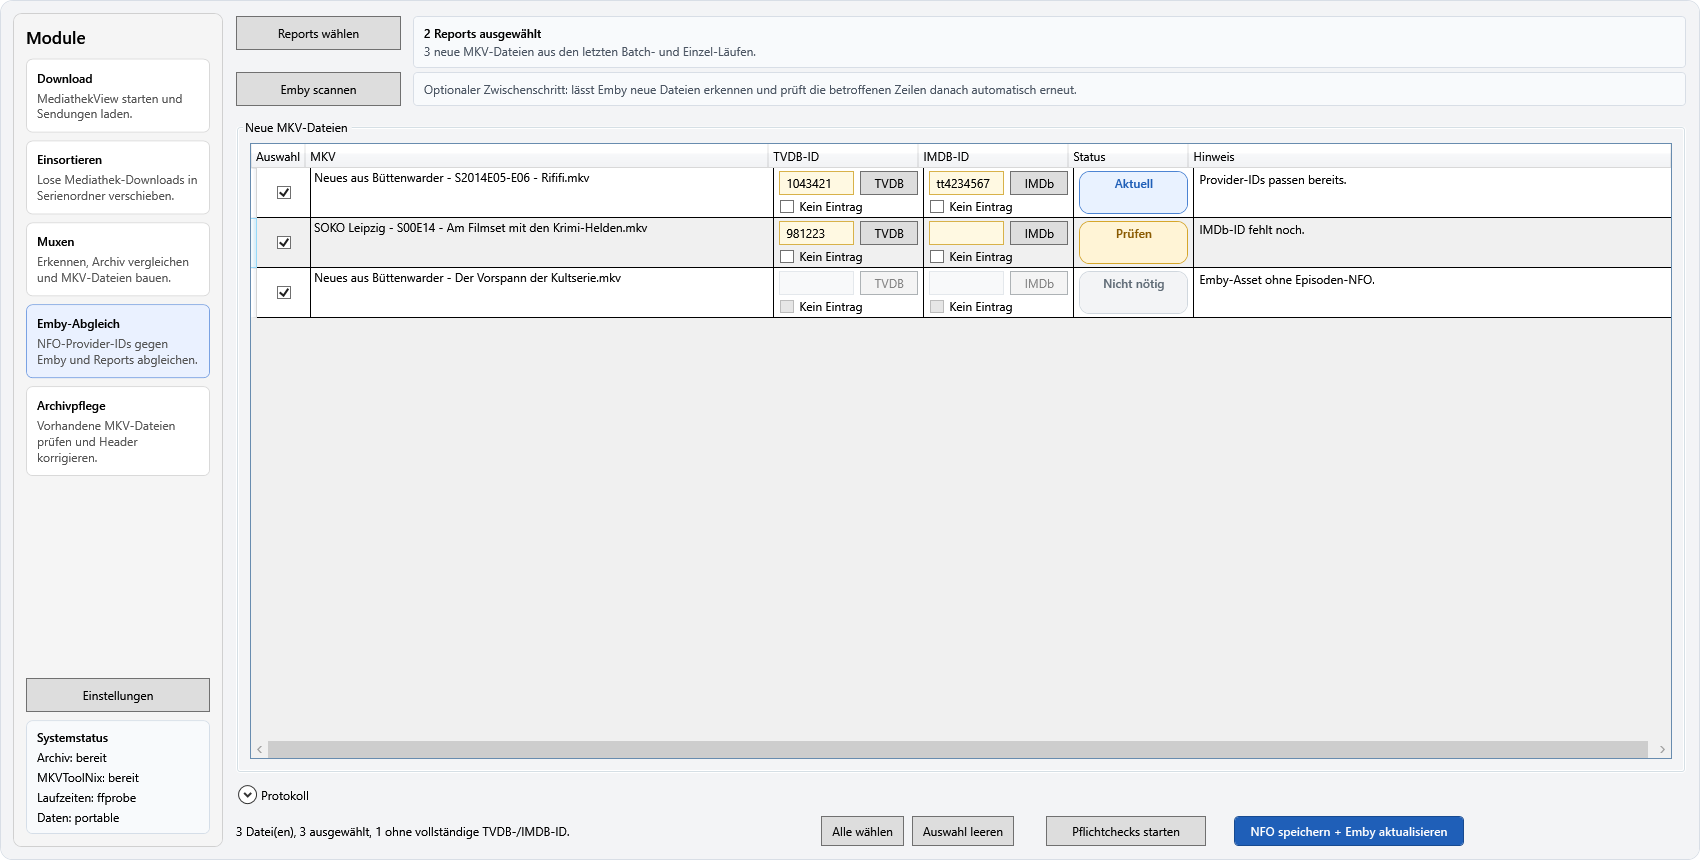
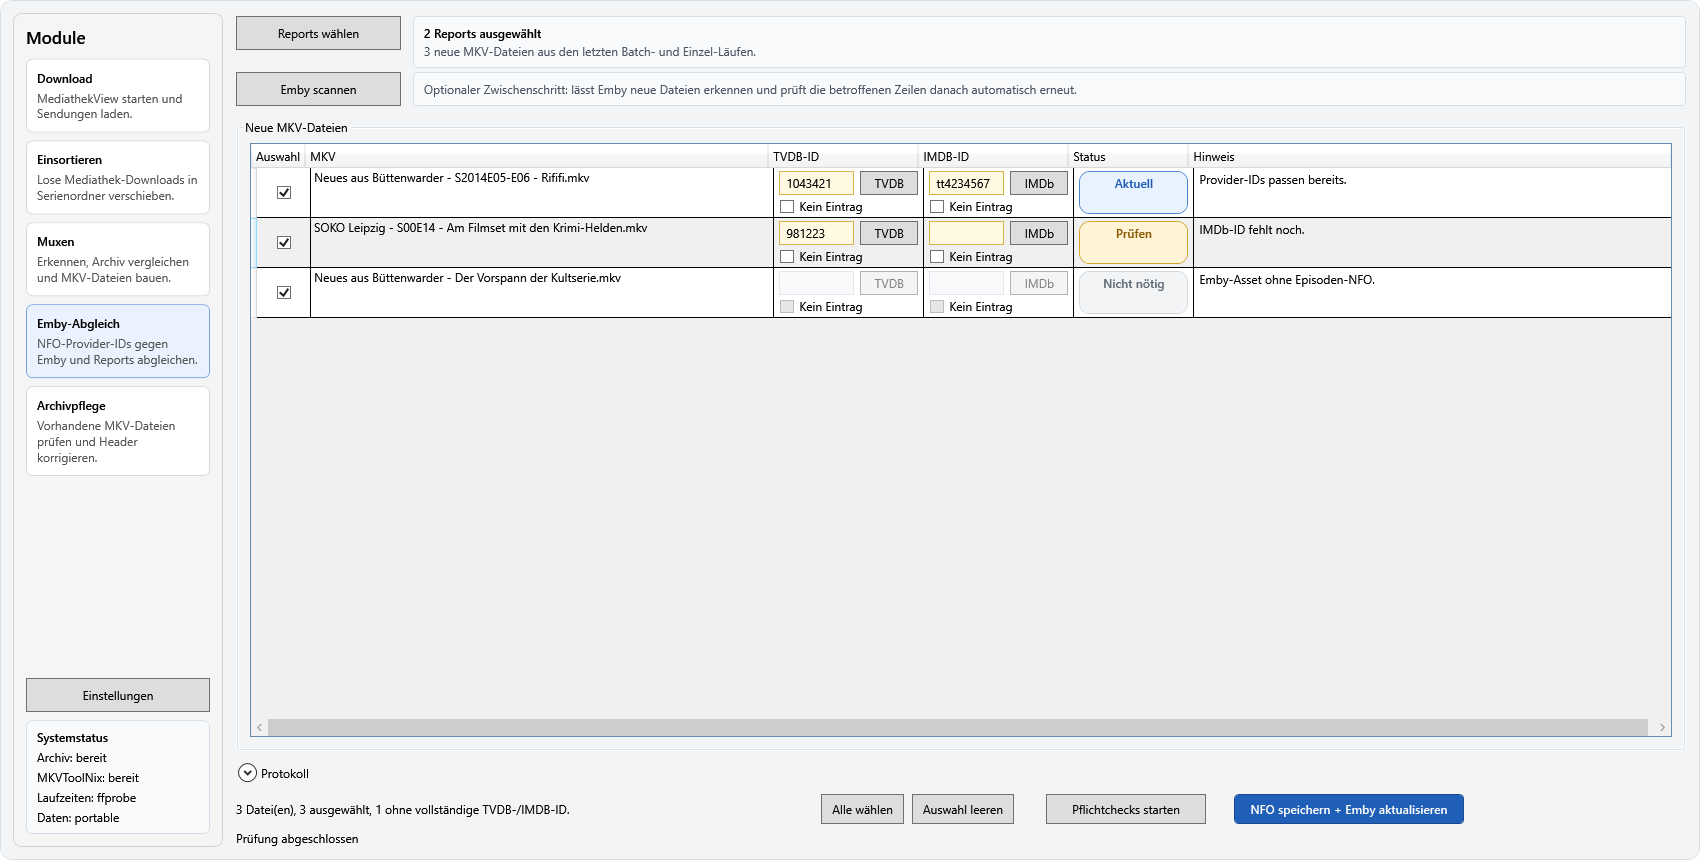
Refresh README screenshots for updated workflow states

Changed region(s): [[0.1247, 0.8163, 0.9976, 0.9977]]

diff --git a/tools/ReadmeScreenshotGenerator/DemoModels.cs b/tools/ReadmeScreenshotGenerator/DemoModels.cs
@@ -43,10 +43,13 @@ internal sealed class DemoMuxModuleViewModel
     public DemoSingleViewModel SingleMux { get; init; } = new();
     public DemoBatchViewModel BatchMux { get; init; } = new();
     public int SelectedTabIndex { get; set; }
+    public bool IsSingleTabEnabled => true;
+    public bool IsBatchTabEnabled => true;
 }
 
 internal sealed class DemoSingleViewModel
 {
+    public bool IsInteractive => true;
     public string MainVideoPath { get; init; } = string.Empty;
     public bool HasPlanSummary { get; init; }
     public Brush OutputTargetBadgeBackground { get; init; } = Brushes.Transparent;
@@ -64,6 +67,7 @@ internal sealed class DemoSingleViewModel
     public DemoEpisodeUsageSummary? UsageSummary { get; init; }
     public bool HasPendingPlanReview { get; init; }
     public string PrimaryActionablePlanNote { get; init; } = string.Empty;
+    public string ActionablePlanNotesDisplayText => PrimaryActionablePlanNote;
     public bool HasPlanRefreshProblem { get; init; }
     public string PlanRefreshProblemText { get; init; } = string.Empty;
     public bool RequiresManualCheck { get; init; }
@@ -203,6 +207,7 @@ internal sealed class DemoBatchEpisodeItem
     public bool HasNotes { get; init; }
     public bool HasActionablePlanNotes { get; init; }
     public string PrimaryActionablePlanNote { get; init; } = string.Empty;
+    public string ActionablePlanNotesDisplayText => PrimaryActionablePlanNote;
     public IReadOnlyList<string> RequestedSourcePaths { get; init; } = [];
     public IReadOnlyList<string> SubtitlePaths { get; init; } = [];
     public IReadOnlyList<string> AttachmentPaths { get; init; } = [];
